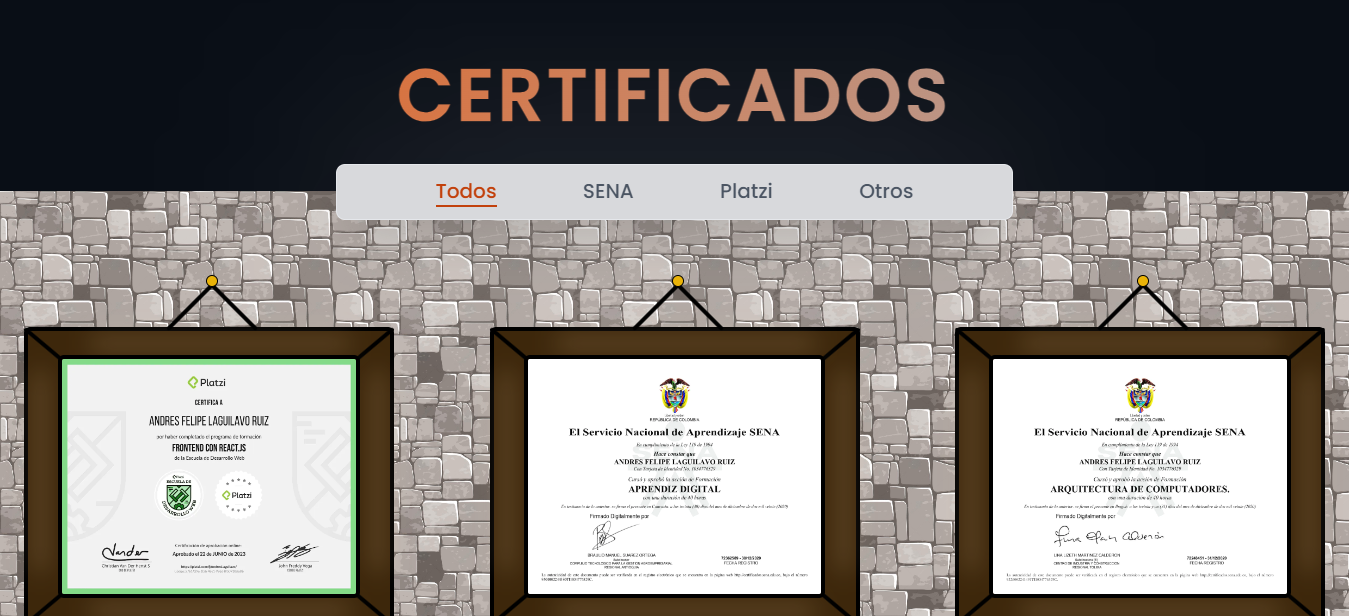
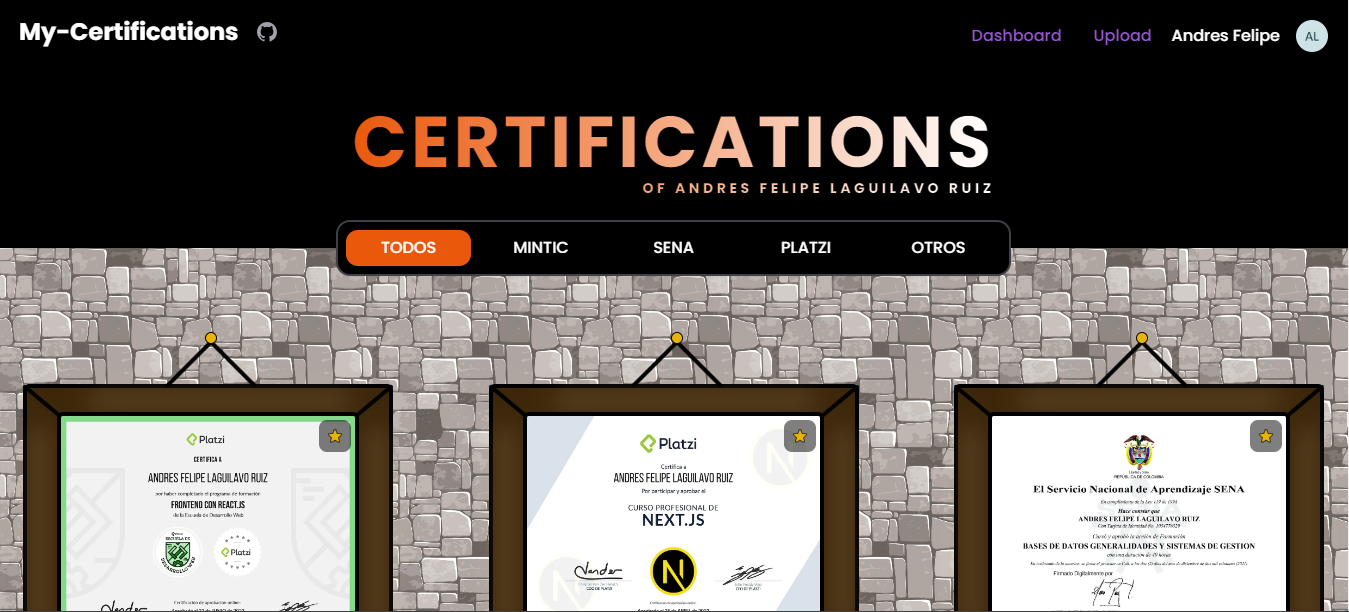
feta : add new certifications card

diff --git a/src/locales/languajes.js b/src/locales/languajes.js
@@ -91,7 +91,7 @@ export const languajes = {
         {
           title: 'Certificaciones',
           description:
-            'Galería de diplomas obtenidos a lo largo de mi carrera profesional desempeñándome como desarrollador de software. Construido con Next.js 13 utilizando App Router y haciendo uso de la herramienta Cloudinary para el alojamiento de las imágenes.'
+            'My-Certifications es una plataforma desarrollada para facilitar el almacenamiento y la exhibición de  certificados convirtiendose en una galería elegante y profesional para dar a conocer los reconocimientos a lo largo de la carrera profesional.'
         }
       ]
     },
@@ -193,7 +193,7 @@ export const languajes = {
         {
           title: 'Certifications',
           description:
-            'Diploma gallery obtained throughout my professional career as a software developer. Built with Next.js 13 using the App Router and making use of the Cloudinary tool for image hosting.'
+            "My-Certifications is a platform developed to facilitate the storage and display of certificates, becoming an elegant and professional gallery to showcase recognitions throughout one's professional career."
         }
       ]
     },

diff --git a/src/components/Projects/index.js b/src/components/Projects/index.js
@@ -12,20 +12,20 @@ export function Projects() {
   const { lang } = useLanguaje()
   const Projects = [
     {
+      title: lang.projects.data[5].title,
+      img: certifications.src,
+      labels: ['NextJS', 'Tailwind', 'Typescript'],
+      repo: 'https://github.com/Laguilavo10/certifications#readme',
+      url: 'https://my-certifications.vercel.app/',
+      description: lang.projects.data[5].description
+    },
+    {
       title: lang.projects.data[0].title,
       img: SI.src,
       labels: ['NextJS', 'Tailwind', 'SQL', 'JWT'],
       repo: '',
       url: 'https://www.linkedin.com/feed/update/urn:li:activity:7056676036511428608/',
       description: lang.projects.data[0].description
-    },
-    {
-      title: lang.projects.data[5].title,
-      img: certifications.src,
-      labels: ['NextJS', 'Tailwind', 'Typescript'],
-      repo: 'https://github.com/Laguilavo10/certifications',
-      url: 'https://laguilavo-certifications.vercel.app/',
-      description: lang.projects.data[5].description
     },
     {
       title: lang.projects.data[1].title,
